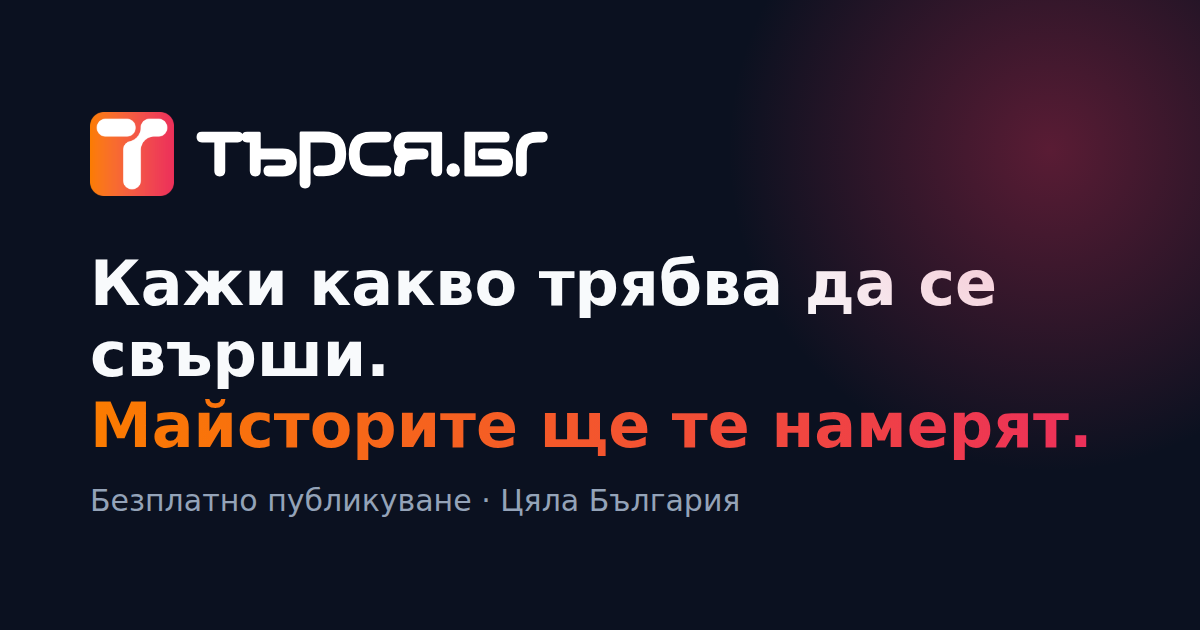
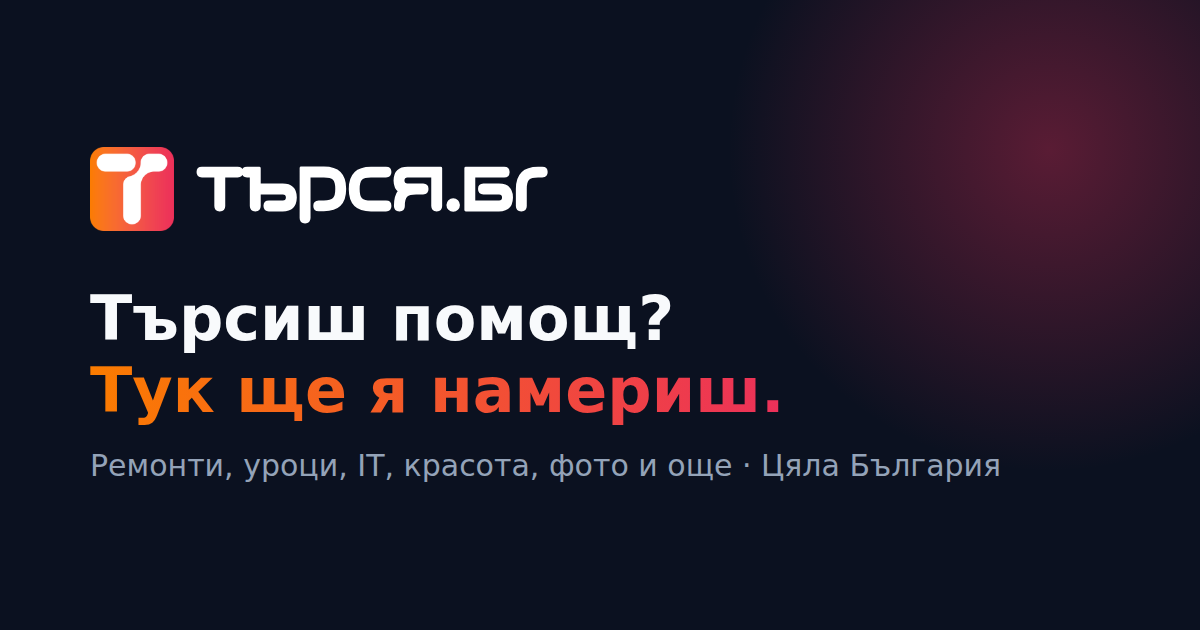
Use neutral provider wording, new tagline and share image

Changed region(s): [[0.0617, 0.1508, 0.925, 0.8143]]

diff --git a/src/lib/landing-content.ts b/src/lib/landing-content.ts
@@ -9,7 +9,7 @@ function hash(str: string) {
 }
 
 const OPENINGS = [
-  (c: string, city: string) => `Търсиш майстор за ${c.toLowerCase()} в ${city}? Тук намираш реални задачи и изпълнители от района, без посредници и без обаждания на сляпо.`,
+  (c: string, city: string) => `Търсиш специалист за ${c.toLowerCase()} в ${city}? Тук намираш реални задачи и изпълнители от района, без посредници и без обаждания на сляпо.`,
   (c: string, city: string) => `${c} в ${city} е една от най-търсените услуги в платформата. Клиентите публикуват задачата си безплатно, а изпълнители от общината се свързват директно с тях.`,
   (c: string, city: string) => `Ако ти трябва изпълнител за ${c.toLowerCase()} в ${city}, това е мястото да сравниш оферти и да избереш човек с реални отзиви.`,
   (c: string, city: string) => `Всяка седмица в ${city} се публикуват нови задачи за ${c.toLowerCase()}. Виж актуалните задачи по-долу и се свържи със заявителя още днес.`,
@@ -28,7 +28,7 @@ const MIDDLES = [
 
 const CLOSINGS = [
   (c: string, city: string) => `Разгледай активните задачи за ${c.toLowerCase()} в ${city}, отвори тази, която ти пасва, и започни разговор директно със заявителя.`,
-  (c: string, city: string) => `Ако си клиент от ${city}, публикувай своята задача за ${c.toLowerCase()} и получи предложения от местни майстори в рамките на часове.`,
+  (c: string, city: string) => `Ако си клиент от ${city}, публикувай своята задача за ${c.toLowerCase()} и получи предложения от местни изпълнители в рамките на часове.`,
   (c: string, city: string) => `Следвай връзките към съседните общини и близките категории, ако не откриваш подходяща задача за ${c.toLowerCase()} точно в ${city}.`,
   (c: string, city: string) => `Запази страницата за ${c.toLowerCase()} в ${city} и се връщай, защото списъкът се обновява при всяка нова публикувана задача.`,
 ];
@@ -80,9 +80,9 @@ export function landingH1(opts: { municipality?: Municipality; category?: Catego
   const { municipality, category } = opts;
   // "Търся" here is the verb ("I'm looking for"), not the brand name.
   if (municipality && category)
-    return `Търся майстор за ${category.name.toLowerCase()} в ${municipalityLabel(municipality.name, municipality.hasNeighborhoods)}`;
+    return `Търся специалист за ${category.name.toLowerCase()} в ${municipalityLabel(municipality.name, municipality.hasNeighborhoods)}`;
   if (municipality)
     return `Търся изпълнител в ${municipalityLabel(municipality.name, municipality.hasNeighborhoods)}, задачи и услуги`;
-  if (category) return `${category.name}, задачи и майстори в цяла България`;
+  if (category) return `${category.name}, задачи и изпълнители в цяла България`;
   return `${BRAND}, задачи и услуги`;
 }

diff --git a/src/lib/contact.functions.ts b/src/lib/contact.functions.ts
@@ -33,7 +33,7 @@ function supportEmail(row: { id: string; name: string; email: string; subject: s
     bodyHtml: `
       <div style="margin-top:8px;padding:16px 18px;border:1px solid #e2e8f0;border-radius:12px;background:#f8fafc;color:#0f172a;font-size:15px;line-height:1.6;white-space:pre-wrap">${escapeHtml(row.body)}</div>`,
     cta: { label: "Отвори в админ панела", href: absoluteUrl(`/admin/contact#msg-${row.id}`) },
-    footerHtml: "Можеш да отговориш директно на този имейл — отговорът отива до подателя.",
+    footerHtml: "Можеш да отговориш директно на този имейл. Отговорът отива до подателя.",
   });
 }
 
@@ -94,7 +94,7 @@ export const notifyContactMessage = createServerFn({ method: "POST" })
         from: SUPPORT_FROM,
         to: [SUPPORT_TO],
         reply_to: row.email,
-        subject: `[Контакт] ${row.subject} — ${row.name}`,
+        subject: `[Контакт] ${row.subject} от ${row.name}`,
         html: supportEmail(row),
       });
     } catch (e) {
@@ -116,7 +116,7 @@ export const notifyContactMessage = createServerFn({ method: "POST" })
           from: SUPPORT_FROM,
           to: [row.email],
           reply_to: SUPPORT_TO,
-          subject: "Получихме съобщението ти — ТърсяБГ",
+          subject: "Получихме съобщението ти",
           html: confirmationEmail(),
         });
       }

diff --git a/src/components/tasks/delete-task-dialog.tsx b/src/components/tasks/delete-task-dialog.tsx
@@ -54,8 +54,8 @@ export function DeleteTaskDialog({
       toast.success("Задачата е изтрита.", {
         description:
           res.refundedUsers > 0
-            ? `Върнахме ${res.refundedCredits} точки на ${res.refundedUsers} майстор(а).`
-            : "Няма майстори за възстановяване на точки.",
+            ? `Върнахме ${res.refundedCredits} точки на ${res.refundedUsers} изпълнител(и).`
+            : "Няма изпълнители за възстановяване на точки.",
       });
       if (redirectTo === "profile") void navigate({ to: "/profile" });
     } catch (err) {
@@ -84,7 +84,7 @@ export function DeleteTaskDialog({
               <div className="flex items-start gap-2 rounded-xl border border-amber-200 bg-amber-50 p-3 text-xs leading-snug text-amber-900">
                 <AlertTriangle className="mt-0.5 h-4 w-4 shrink-0" />
                 <span>
-                  {unlockers} майстор(а) вече платиха за контакта ти. При изтриване автоматично им
+                  {unlockers} изпълнител(и) вече платиха за контакта ти. При изтриване автоматично им
                   връщаме общо {credits} точки и ги уведомяваме.
                 </span>
               </div>

diff --git a/src/routes/tasks.tsx b/src/routes/tasks.tsx
@@ -36,8 +36,8 @@ export const Route = createFileRoute("/tasks")({
       title: label ? `${label}, нови задачи от клиенти` : "Нови задачи от клиенти в твоя град",
       description: clampDescription(
         label
-          ? `${label}: клиенти търсят изпълнител сега. Без абонамент и без комисионна – плащаш само за контакта, който искаш. Най-много 5 майстори на задача.`
-          : "Клиенти, които търсят майстор сега. Без абонамент и без комисионна – плащаш само за контакта, който искаш. Най-много 5 майстори на задача.",
+          ? `${label}: клиенти търсят изпълнител сега. Без абонамент и без комисионна – плащаш само за контакта, който искаш. Най-много 5 изпълнители на задача.`
+          : "Клиенти, които търсят изпълнител сега. Без абонамент и без комисионна – плащаш само за контакта, който искаш. Най-много 5 изпълнители на задача.",
       ),
       path: "/tasks",
     });

diff --git a/src/components/tasks/task-form.tsx b/src/components/tasks/task-form.tsx
@@ -290,7 +290,7 @@ export function TaskForm({
       <div className="space-y-2">
         <Label>Снимки (по избор)</Label>
         <p className="text-xs text-muted-foreground">
-          Снимките помагат на майсторите да разберат по-добре какво трябва да се направи.
+          Снимките помагат на изпълнителите да разберат по-добре какво трябва да се направи.
         </p>
 
         {keptExisting.length > 0 && (
@@ -457,7 +457,7 @@ export function TaskForm({
               })}
             </div>
             <p className="text-xs text-muted-foreground">
-              Майсторите ще видят ориентировъчния бюджет. Цената се уточнява с избрания майстор.
+              Изпълнителите ще видят ориентировъчния бюджет. Цената се уточнява с избрания изпълнител.
             </p>
           </>
         )}

diff --git a/src/lib/content-quality.ts b/src/lib/content-quality.ts
@@ -80,7 +80,7 @@ const TITLE_MESSAGES: Record<QualityIssue, string> = {
 };
 
 const DESCRIPTION_MESSAGES: Record<QualityIssue, string> = {
-  TOO_SHORT: `Описанието е твърде кратко. Използвай поне ${DESCRIPTION_MIN} знака и кажи какво трябва да се направи, кога и има ли специфики.`,
+  TOO_SHORT: `Описанието е твърде кратко. Използвай поне ${DESCRIPTION_MIN} знака и опиши какво трябва да се направи, кога и има ли специфики.`,
   TOO_LONG: `Описанието е твърде дълго. Съкрати го до ${DESCRIPTION_MAX} знака.`,
   NO_LETTERS: "Описанието трябва да съдържа думи, не само цифри или символи.",
   REPEATED_WORD: "Описанието повтаря една и съща дума. Разкажи с няколко изречения какво ти трябва.",

diff --git a/src/routes/index.tsx b/src/routes/index.tsx
@@ -13,9 +13,9 @@ import { absoluteUrl, BRAND, BRAND_LATIN, BRAND_TAGLINE } from "@/lib/brand";
 export const Route = createFileRoute("/")({
   head: () => {
     const { meta, links } = seo({
-      title: "Кажи какво трябва. Майсторите ще те намерят",
+      // No page title: the tab and search results show "ТърсяБГ | Борса за работа и услуги в България".
       description:
-        "Публикувай задачата си безплатно. Телефонът ти виждат само до 5 майстори – без спам и без 20 обаждания. Ремонти, почистване, превоз и още.",
+        "Публикувай задачата си безплатно. Телефонът ти виждат само до 5 изпълнители – без спам и без 20 обаждания. Ремонти, почистване, превоз и още.",
       path: "/",
     });
     return {

diff --git a/src/routes/api/public/cron/task-alerts.ts b/src/routes/api/public/cron/task-alerts.ts
@@ -66,7 +66,7 @@ function digestEmail(name: string | null, count: number, tasks: DigestTask[]): s
     introHtml: `
       <p style="margin:0 0 10px">${hello}</p>
       <p style="margin:0">${count === 1 ? "Появи се нова задача" : `Появиха се ${count} нови задачи`} по известията, които си включил.
-      Контактът на всеки клиент могат да отключат най-много 5 майстори, затова е добре да се свържеш навреме.</p>`,
+      Контактът на всеки клиент могат да отключат най-много 5 изпълнители, затова е добре да се свържеш навреме.</p>`,
     bodyHtml: listed.map(taskCard).join("") + more,
     cta:
       count === 1 && listed[0]

diff --git a/src/routes/_authenticated/posted.$id.tsx b/src/routes/_authenticated/posted.$id.tsx
@@ -12,7 +12,7 @@ export const Route = createFileRoute("/_authenticated/posted/$id")({
       { title: "Задачата е публикувана | ТърсяБГ" },
       {
         name: "description",
-        content: "Задачата ти е публикувана успешно. Промотирай я, за да получиш повече оферти от майстори.",
+        content: "Задачата ти е публикувана успешно. Промотирай я, за да получиш повече оферти от изпълнители.",
       },
       { property: "og:title", content: "Задачата е публикувана | ТърсяБГ" },
       { property: "og:description", content: "Промотирай новата си задача за повече прегледания и оферти." },

diff --git a/src/components/promotions/promo-picker.tsx b/src/components/promotions/promo-picker.tsx
@@ -24,7 +24,7 @@ const ICONS: Record<PromoType, typeof Crown> = {
 /** Кратка полза на български за всяка промоция. */
 export const PROMO_BENEFITS: Record<PromoType, string> = {
   bump: "Обявата ти се показва най-отгоре в списъка и получава нова вълна прегледания.",
-  urgent: "Червеният етикет „Спешно“ носи до 3 пъти повече запитвания от майстори.",
+  urgent: "Червеният етикет „Спешно“ носи до 3 пъти повече запитвания от изпълнители.",
   top: "Обявата ти стои в промотираните места най-отгоре и получава до 5 пъти повече прегледания.",
 };
 

diff --git a/src/routes/city.$city.$category.tsx b/src/routes/city.$city.$category.tsx
@@ -32,7 +32,7 @@ export const Route = createFileRoute("/city/$city/$category")({
     const { meta, links } = seo({
       title: `${catName} в ${cityName}, задачи и работа`,
       description: clampDescription(
-        `Търсиш майстор за ${catName.toLowerCase()} в община ${cityName}${region ? `, област ${region}` : ""}? Виж активните задачи, свържи се директно със заявителя и договори цена в евро.`,
+        `Търсиш специалист за ${catName.toLowerCase()} в община ${cityName}${region ? `, област ${region}` : ""}? Виж активните задачи, свържи се директно със заявителя и договори цена в евро.`,
       ),
       path,
     });

diff --git a/src/routes/__root.tsx b/src/routes/__root.tsx
@@ -114,7 +114,7 @@ export const Route = createRootRouteWithContext<{ queryClient: QueryClient }>()(
       {
         name: "description",
         content:
-          "Публикувай задачата си безплатно. Телефонът ти виждат само до 5 майстори – без спам и без 20 обаждания. Ремонти, почистване, превоз и още.",
+          "Публикувай задачата си безплатно. Телефонът ти виждат само до 5 изпълнители – без спам и без 20 обаждания. Ремонти, почистване, превоз и още.",
       },
       { property: "og:type", content: "website" },
       { property: "og:site_name", content: BRAND },
